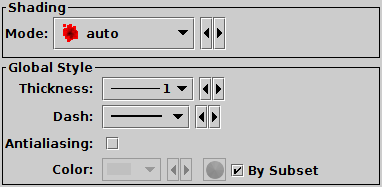
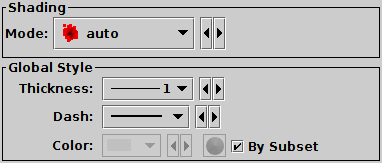
ttools: withdraw antialias option from LineArrayForm
Since the plotting is done using bitmapped glyphs, the antialiasing
just made things look worse, so remove the option.
In principle this might break existing stilts commands that use the
Lines layer with an explicit antialias setting, but probably nobody does.

diff --git a/ttools/src/main/uk/ac/starlink/ttools/plot2/layer/LineArrayForm.java b/ttools/src/main/uk/ac/starlink/ttools/plot2/layer/LineArrayForm.java
@@ -100,15 +100,13 @@ public class LineArrayForm implements ShapeForm {
     public ConfigKey<?>[] getConfigKeys() {
         List<ConfigKey<?>> list = new ArrayList<>();
         list.addAll( Arrays.asList( StyleKeys.getStrokeKeys() ) );
-        list.add( StyleKeys.ANTIALIAS );
         return list.toArray( new ConfigKey<?>[ 0 ] );
     }
 
     public Outliner createOutliner( ConfigMap config ) {
         Stroke stroke = StyleKeys.createStroke( config, BasicStroke.CAP_ROUND,
                                                 BasicStroke.JOIN_ROUND );
-        boolean antialias = config.get( StyleKeys.ANTIALIAS );
-        return new LineArrayOutliner( stroke, antialias );
+        return new LineArrayOutliner( stroke );
     }
 
    /**
@@ -142,19 +140,15 @@ public class LineArrayForm implements ShapeForm {
     private class LineArrayOutliner extends PixOutliner {
 
         private final Stroke stroke_;
-        private final boolean antialias_;
         private final Icon legendIcon_;
 
         /**
          * Constructor.
          *
          * @param  stroke  line stroke
-         * @param  antialias  antialiasing flag; note this may be ignored
-         *                    depending on the ShapeMode with which it is used
          */
-        public LineArrayOutliner( Stroke stroke, boolean antialias ) {
+        public LineArrayOutliner( Stroke stroke ) {
             stroke_ = stroke;
-            antialias_ = antialias;
             legendIcon_ = new Icon() {
                 final int width = MarkerStyle.LEGEND_ICON_WIDTH;
                 final int height = MarkerStyle.LEGEND_ICON_HEIGHT;
@@ -198,6 +192,7 @@ public class LineArrayForm implements ShapeForm {
             final Point2D.Double gpos = new Point2D.Double();
             final Function<Tuple,XYArrayData> xyReader =
                 createXYArrayReader( dataSpec );
+            final boolean antialias = false;
             return new ShapePainter() {
                 public void paintPoint( Tuple tuple, Color color,
                                         Paper paper ) {
@@ -232,8 +227,9 @@ public class LineArrayForm implements ShapeForm {
                         /* The current implementation constructs a glyph
                          * by drawing onto a bitmap, which could be the
                          * size of the whole plot surface.  This is quite
-                         * inefficient, but I don't currently have a better
-                         * way to paint thick multilines with correct joins 
+                         * inefficient and means antialiasing won't work,
+                         * but I don't currently have a better way
+                         * to paint thick multilines with correct joins 
                          * onto a bitmap, which is required in order to allow
                          * ShapeMode-type shading options.
                          * For this plot form, there probably will not be
@@ -249,7 +245,7 @@ public class LineArrayForm implements ShapeForm {
                                 public void paintGlyph( Graphics g ) {
                                     LineTracer tracer =
                                         new LineTracer( g, bounds, stroke_,
-                                                        antialias_, ng,
+                                                        antialias, ng,
                                                         isBitmap );
                                     Color gColor = g.getColor();
                                     for ( int ip = 0; ip < ng; ip++ ) {
@@ -280,7 +276,6 @@ public class LineArrayForm implements ShapeForm {
         public int hashCode() {
             int code = 886301;
             code = 23 * code + stroke_.hashCode();
-            code = 23 * code + ( antialias_ ? 7 : 11 );
             return code;
         }
 
@@ -288,8 +283,7 @@ public class LineArrayForm implements ShapeForm {
         public boolean equals( Object o ) {
             if ( o instanceof LineArrayOutliner ) {
                 LineArrayOutliner other = (LineArrayOutliner) o;
-                return this.stroke_.equals( other.stroke_ )
-                    && this.antialias_ == other.antialias_;
+                return this.stroke_.equals( other.stroke_ );
             }
             else {
                 return false;
